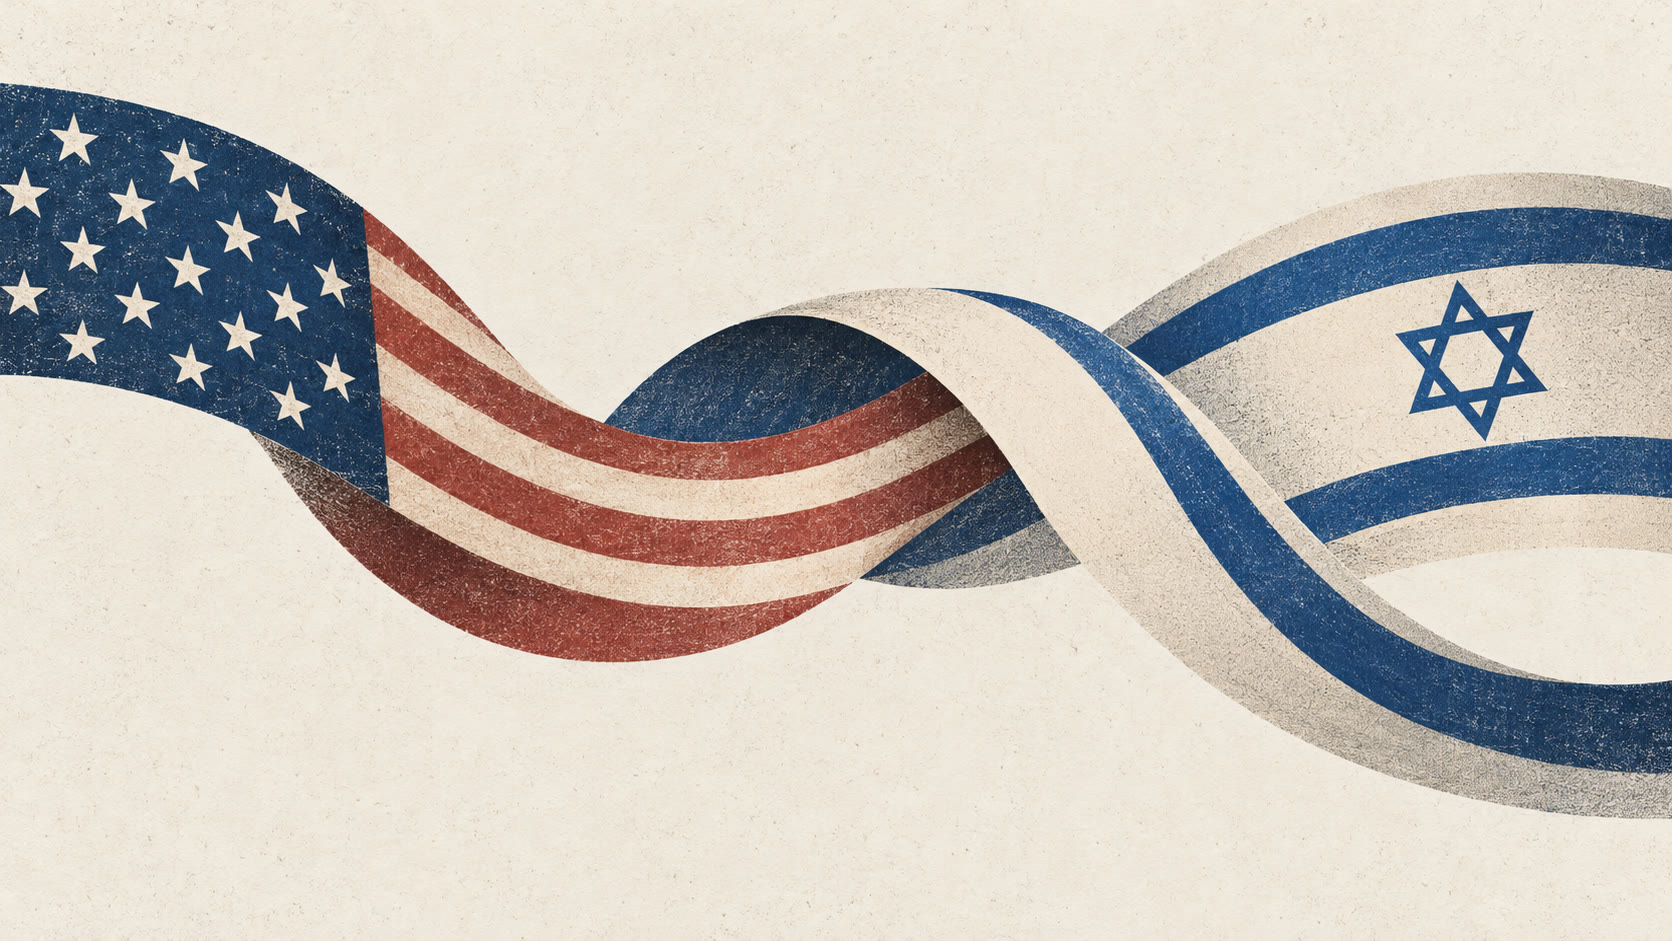
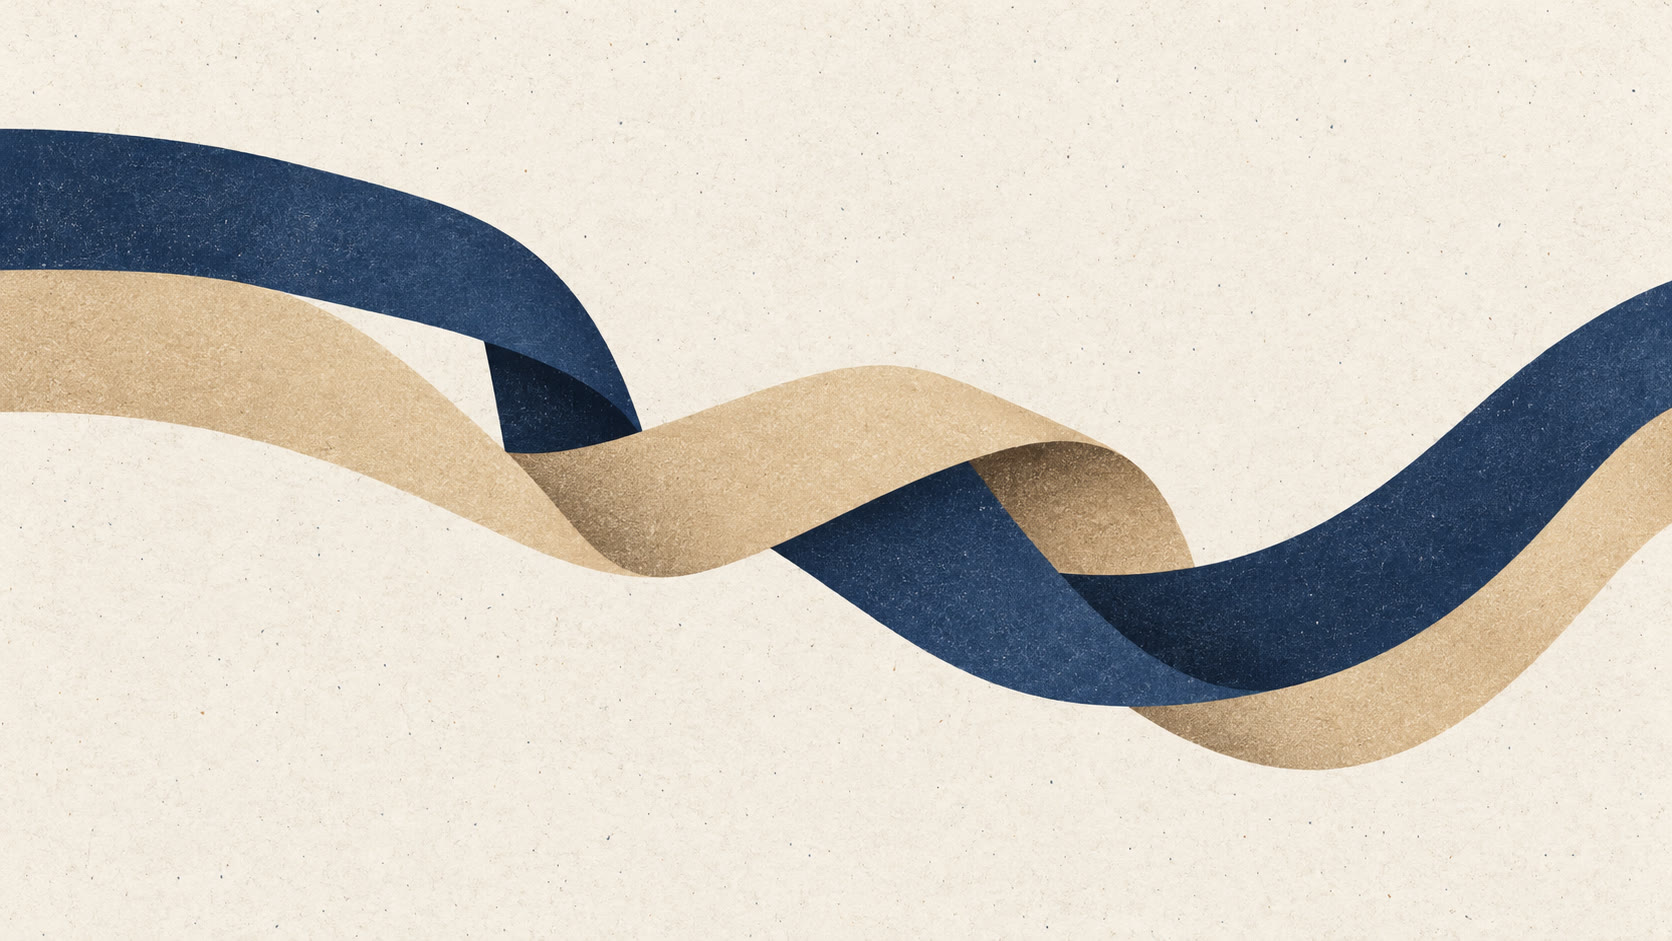
Ed46: LR closing source note was stale (ASML text) - fixed to Nasdaq sources; int3 plate regenerated (flags -> plain ribbons)

diff --git a/gen_lrfile46.py b/gen_lrfile46.py
@@ -58,7 +58,7 @@ for g in lr['groups']:
     out.append('        </Text>')
 
 out.append('')
-out.append('        <Closing>Sources read for this piece: ASML’s own founding story (April 2024) and company history timeline; Michael A. Cusumano’s “The ASML Monopoly” in the Communications of the ACM (September 2026) for the EUV program’s cost, the 2012 customer co-investment, the machine’s economics and China’s catch-up effort, quoted as reported; MIT Technology Review’s June 2026 High NA feature for Benschop’s machine and its price; and ASML’s Q3 2026 results release for the record quarter and the sold-out-through-2028 statement. Quotes are as these sources report them; no scenes or settings are invented.</Closing>')
+out.append('        <Closing>Sources read for this piece: the SEC Historical Society’s Nasdaq exhibit, market-structure timeline and Joe Hardiman interview; Nasdaq’s own fifty-year history and investor-relations FAQ; the NASD’s own history via FINRA; the Congressional Research Service’s account of the 2000-06 spin-off; Borse Dubai’s August 2007 OMX offer document and Nasdaq’s December 2007 release; Traders Magazine’s Nasdaq timeline; and CNBC’s live account of Thursday’s debut. Quotes are as these sources report them; no scenes or settings are invented.</Closing>')
 out.append('    </FileCard>;')
 out.append('}')
 
